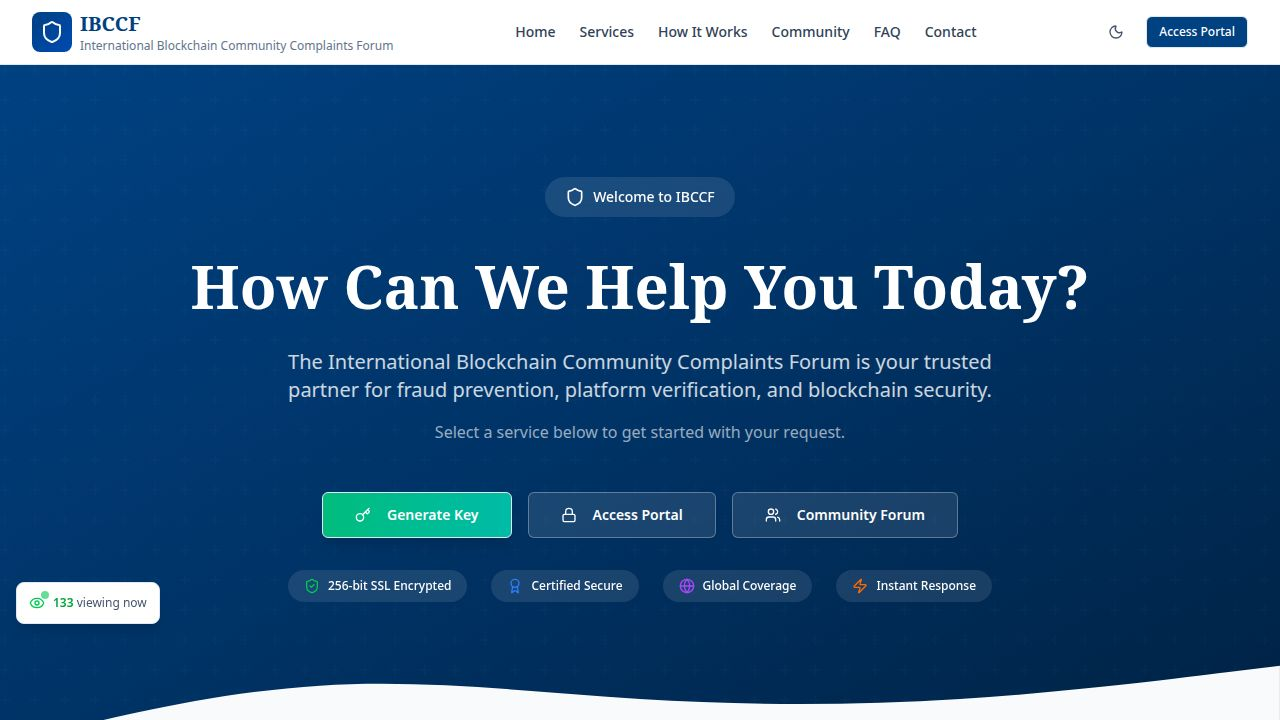
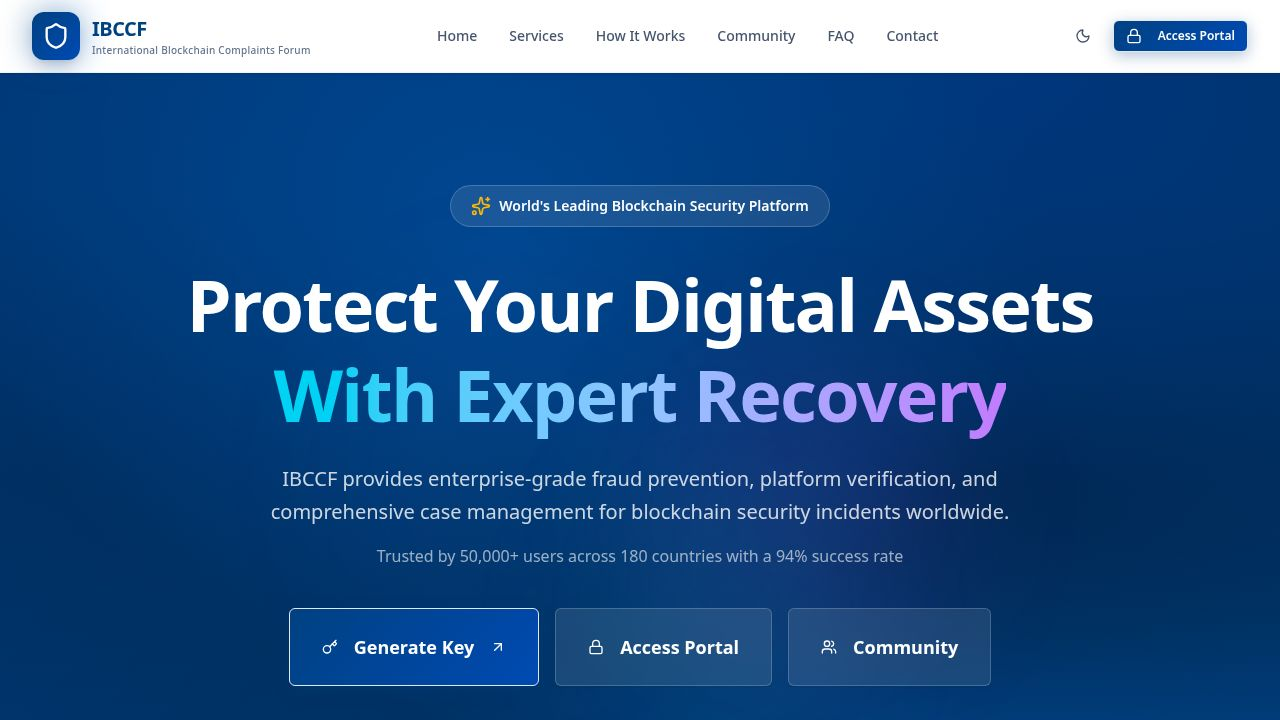
Remove access code field from PIN authentication screen
Update VerifyPlatform.tsx to remove the access code input field when in PIN mode, only displaying the 6-digit PIN input.

Replit-Commit-Author: Agent
Replit-Commit-Session-Id: 8f5cf2f0-0401-4c30-a862-dfc2cfefc0a0
Replit-Commit-Checkpoint-Type: full_checkpoint
Replit-Commit-Event-Id: 59839b2c-f2c9-43f6-bf8d-5650cca21c87
Replit-Commit-Screenshot-Url: https://storage.googleapis.com/screenshot-production-us-central1/b5ceceb6-499a-4296-bc48-c6bf3f425ab1/8f5cf2f0-0401-4c30-a862-dfc2cfefc0a0/muJ8WvA

diff --git a/client/src/pages/VerifyPlatform.tsx b/client/src/pages/VerifyPlatform.tsx
@@ -262,63 +262,45 @@ export default function VerifyPlatform() {
                       animate={{ opacity: 1, x: 0 }}
                       exit={{ opacity: 0, x: -20 }}
                       transition={{ duration: 0.2 }}
-                      className="space-y-4"
                     >
-                      <div>
-                        <label htmlFor="pinAccessCode" className="block text-sm font-medium text-slate-700 dark:text-slate-300 mb-2">
-                          Access Code
-                        </label>
+                      <label htmlFor="pin" className="block text-sm font-medium text-slate-700 dark:text-slate-300 mb-2">
+                        6-Digit PIN
+                      </label>
+                      <div className="relative">
                         <Input
-                          id="pinAccessCode"
-                          type="text"
-                          value={pinAccessCode}
-                          onChange={(e) => setPinAccessCode(e.target.value)}
-                          placeholder="Enter your access code"
-                          className="w-full h-12 text-center text-lg tracking-widest font-mono bg-slate-50 dark:bg-slate-800 border-2 border-slate-200 dark:border-slate-700 focus:border-blue-500 focus:ring-4 focus:ring-blue-500/20 rounded-xl transition-all"
-                          maxLength={10}
-                          data-testid="input-pin-access-code"
+                          id="pin"
+                          type={showPin ? "text" : "password"}
+                          value={pin}
+                          onChange={(e) => {
+                            const value = e.target.value.replace(/\D/g, '').slice(0, 6);
+                            setPin(value);
+                          }}
+                          placeholder="••••••"
+                          className="w-full h-14 text-center text-2xl tracking-[0.8em] font-mono bg-slate-50 dark:bg-slate-800 border-2 border-slate-200 dark:border-slate-700 focus:border-blue-500 focus:ring-4 focus:ring-blue-500/20 rounded-xl transition-all pr-12"
+                          maxLength={6}
+                          data-testid="input-pin-login"
                         />
+                        <button
+                          type="button"
+                          onClick={() => setShowPin(!showPin)}
+                          className="absolute right-4 top-1/2 -translate-y-1/2 text-slate-400 hover:text-slate-600 transition-colors"
+                        >
+                          {showPin ? <EyeOff className="w-5 h-5" /> : <Eye className="w-5 h-5" />}
+                        </button>
                       </div>
-                      <div>
-                        <label htmlFor="pin" className="block text-sm font-medium text-slate-700 dark:text-slate-300 mb-2">
-                          6-Digit PIN
-                        </label>
-                        <div className="relative">
-                          <Input
-                            id="pin"
-                            type={showPin ? "text" : "password"}
-                            value={pin}
-                            onChange={(e) => {
-                              const value = e.target.value.replace(/\D/g, '').slice(0, 6);
-                              setPin(value);
-                            }}
-                            placeholder="••••••"
-                            className="w-full h-14 text-center text-2xl tracking-[0.8em] font-mono bg-slate-50 dark:bg-slate-800 border-2 border-slate-200 dark:border-slate-700 focus:border-blue-500 focus:ring-4 focus:ring-blue-500/20 rounded-xl transition-all pr-12"
-                            maxLength={6}
-                            data-testid="input-pin-login"
+                      <div className="flex justify-center gap-2 mt-3">
+                        {[0, 1, 2, 3, 4, 5].map((i) => (
+                          <motion.div
+                            key={i}
+                            className={`w-3 h-3 rounded-full transition-all ${
+                              i < pin.length 
+                                ? 'bg-gradient-to-br from-blue-500 to-purple-600 shadow-lg' 
+                                : 'bg-slate-200 dark:bg-slate-700'
+                            }`}
+                            animate={{ scale: i === pin.length - 1 && pin.length > 0 ? [1, 1.3, 1] : 1 }}
+                            transition={{ duration: 0.2 }}
                           />
-                          <button
-                            type="button"
-                            onClick={() => setShowPin(!showPin)}
-                            className="absolute right-4 top-1/2 -translate-y-1/2 text-slate-400 hover:text-slate-600 transition-colors"
-                          >
-                            {showPin ? <EyeOff className="w-5 h-5" /> : <Eye className="w-5 h-5" />}
-                          </button>
-                        </div>
-                        <div className="flex justify-center gap-2 mt-3">
-                          {[0, 1, 2, 3, 4, 5].map((i) => (
-                            <motion.div
-                              key={i}
-                              className={`w-3 h-3 rounded-full transition-all ${
-                                i < pin.length 
-                                  ? 'bg-gradient-to-br from-blue-500 to-purple-600 shadow-lg' 
-                                  : 'bg-slate-200 dark:bg-slate-700'
-                              }`}
-                              animate={{ scale: i === pin.length - 1 && pin.length > 0 ? [1, 1.3, 1] : 1 }}
-                              transition={{ duration: 0.2 }}
-                            />
-                          ))}
-                        </div>
+                        ))}
                       </div>
                     </motion.div>
                   )}